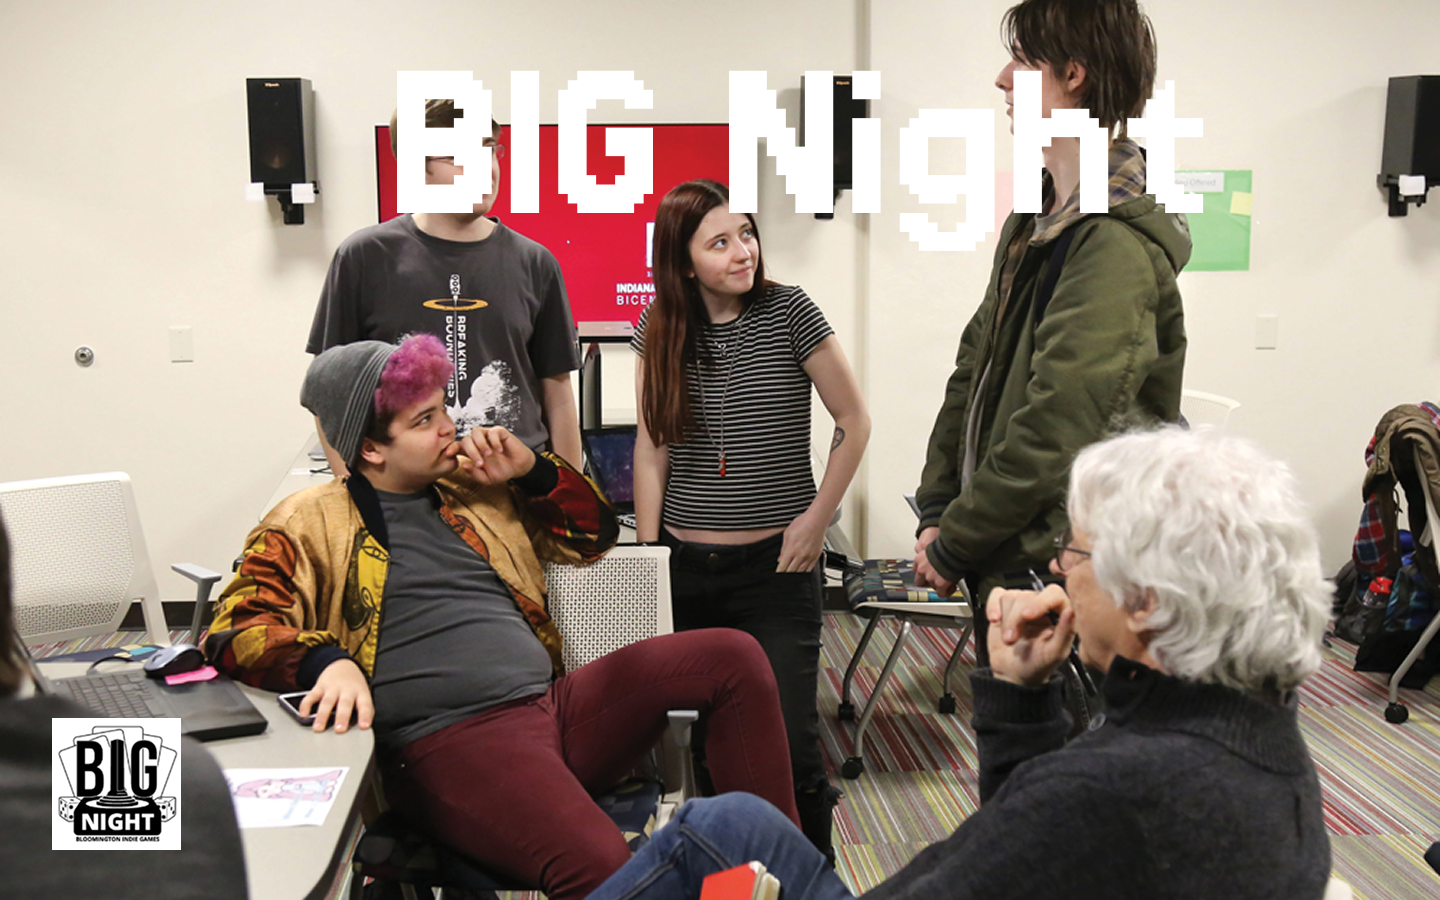
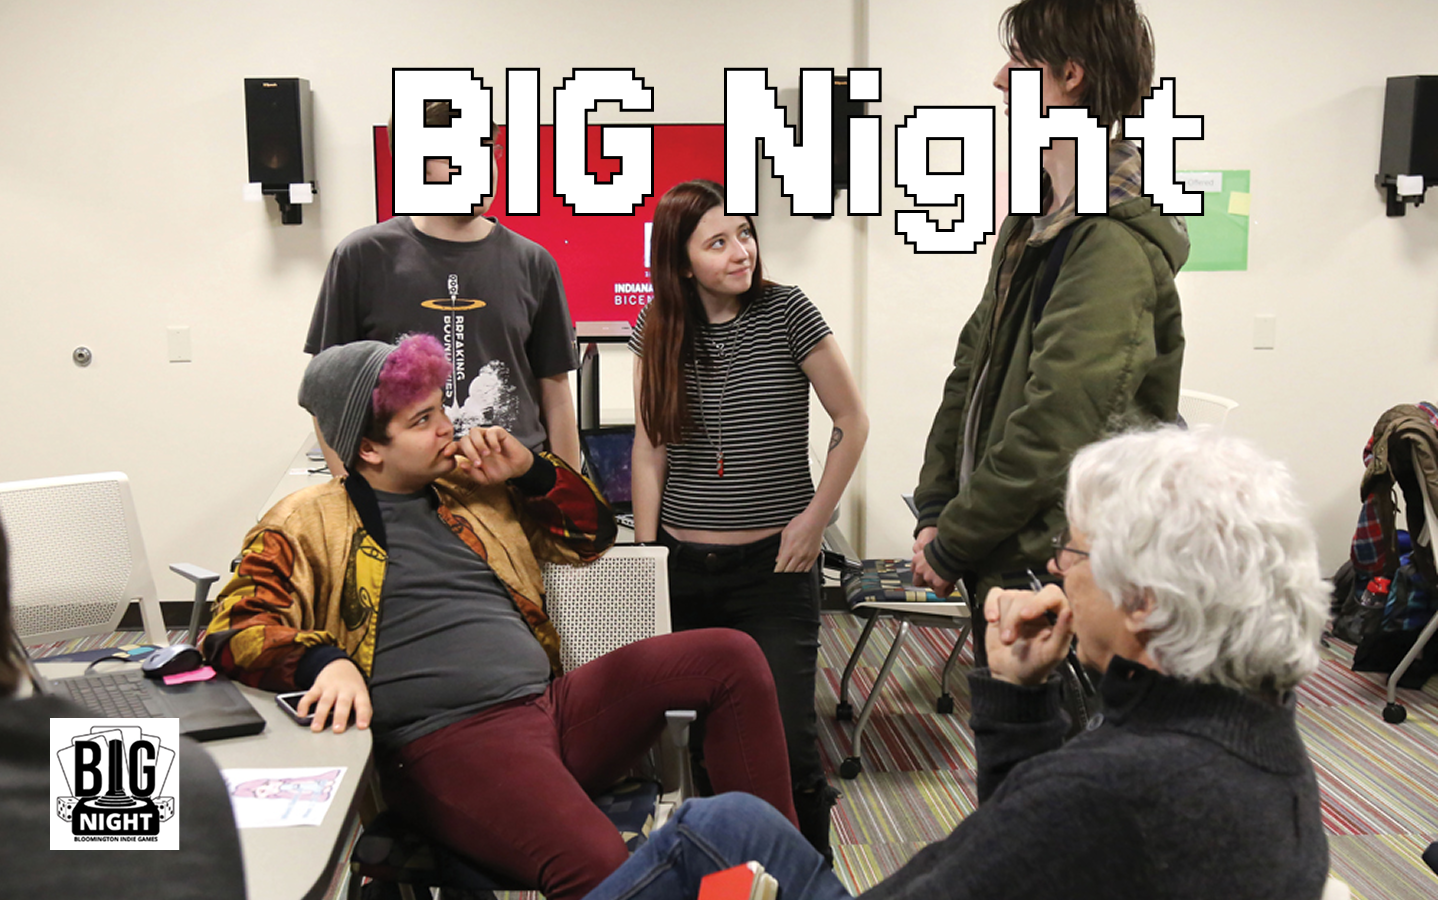
Add jersey font to components and dimmed button backgrounds

diff --git a/src/components/cards/Cards.vue b/src/components/cards/Cards.vue
@@ -3,18 +3,24 @@ import { Card } from 'primevue';
 
 const width = "250px";
 defineProps({
+	sectionHeader: String,
+	sectionDescription: String,
 	cards:Array,
 })
 
 </script>
 
 <template>
+	<div>
+		<h1>{{ sectionHeader }}</h1>
+		{{ sectionDescription }}
+	</div>
 	<div class="card-container">
 		<Card :style="'width:' + width + ';'" v-for="card in cards">
 			<template #header>
 				<img :alt="card.name" :src="card.icon.imageURL" height="100px" :width="width"/>
 			</template>
-			<template #title><a :href="card.icon.link">{{card.name}}</a></template>
+			<template #title><a :href="card.icon.link"><u>{{card.name}}</u></a></template>
 			<template #content>
 				<p class="m-0">
 					{{card.text}}
@@ -40,5 +46,10 @@ defineProps({
 
 img{
 	object-fit: cover;
+}
+
+a{
+	font-family: "Jersey", sans-serif;
+	font-size: x-large;
 }
 </style>

diff --git a/src/components/galleria/Galleria.vue b/src/components/galleria/Galleria.vue
@@ -40,11 +40,14 @@ const responsiveOptions = ref([
 ]);
 </script>
 
-<style scoped>
+<style>
 .box{
 	display: flex;
 	align-items: center;
 	justify-content: center;
+}
 
+.p-galleria-nav-button{
+    background-color: rgba(0, 0, 0, 0.682) !important;
 }
 </style>

diff --git a/src/components/menu/NavMenu.vue b/src/components/menu/NavMenu.vue
@@ -56,6 +56,10 @@ const toggle = (event) => {
 </template>
 
 <style scoped>
+.p-button{
+  background-color: rgba(0, 0, 0, 0.462);
+}
+
 .menu-item-wrapper {
   padding: 0.5rem 1rem;
   cursor: pointer;

diff --git a/src/components/groups/Group.vue b/src/components/groups/Group.vue
@@ -33,6 +33,12 @@ defineProps({
 </template>
 
 <style scoped>
+
+h1{
+	font-family: "Jersey", sans-serif;
+	font-weight:500;
+}
+
 .group-text{
 	width: 80%;
 	flex-grow: 4;
